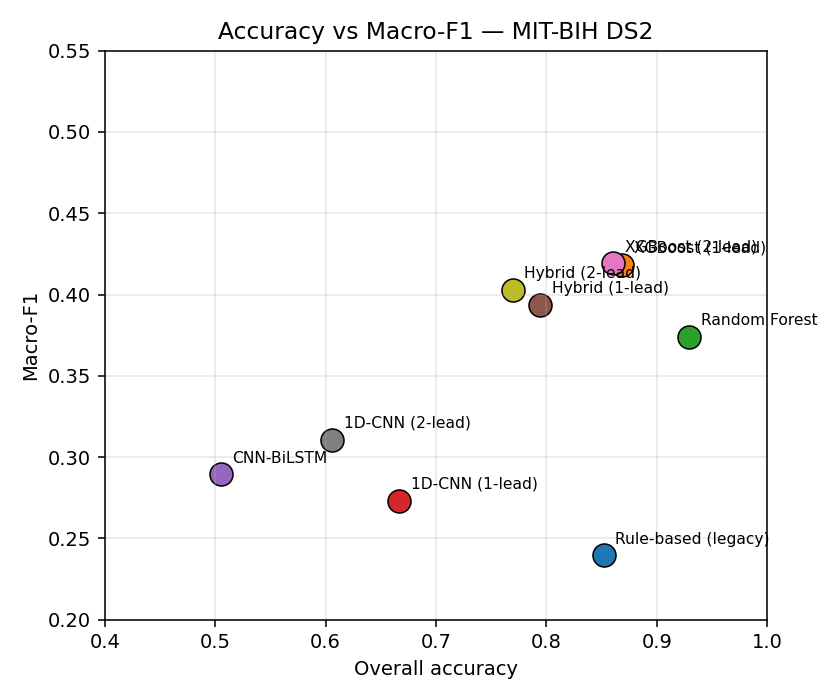
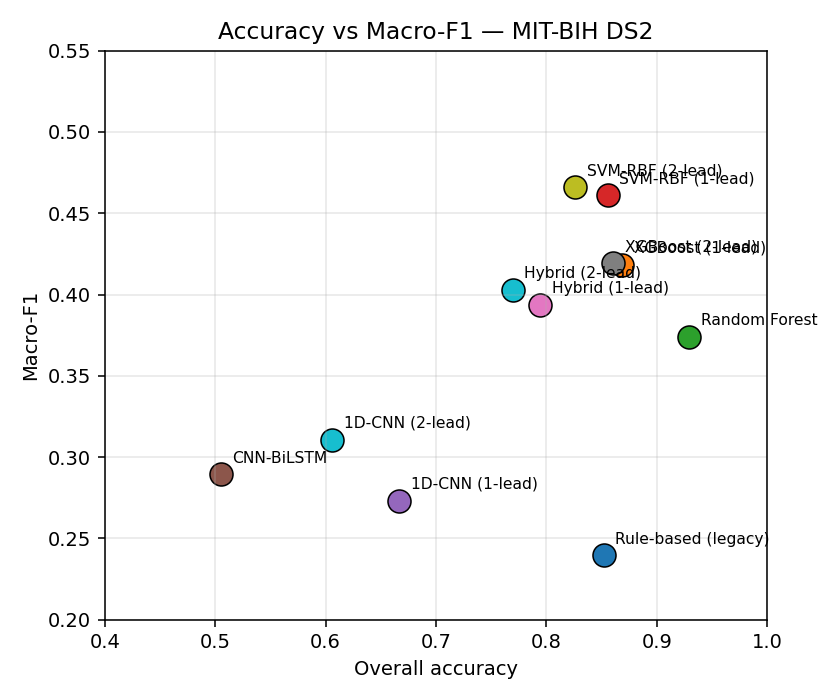
Add SVM (1-lead + 2-lead) — new best macro-F1 at 0.47
Train SVM-RBF on the 70-dim handcrafted feature vector (35 features per
lead, 2 leads) using stratified class-balanced subsampling of DS1
(1,600 beats per class capped, ~4,600 beats total). Trains in ~2 s.

Results on DS2 (49,692 beats):

  SVM-RBF 1-lead    accuracy 0.8554  macro-F1 0.4612  S-F1 0.4325  F-recall 0.74
  SVM-RBF 2-lead    accuracy 0.8262  macro-F1 0.4663  S-F1 0.5409  F-recall 0.90

The SVM 2-lead is the new best by macro-F1, S-F1, and S-recall (0.58 —
about 4x XGBoost's 0.13). The hybrid 2-lead still wins F-recall (0.89
vs 0.90 — essentially tied) and S F1 is now decisively SVM territory.

The reading: on a 90%-majority-class problem with strong hand-crafted
features, the maximum-margin classifier with an RBF kernel exploits the
class structure better than gradient-boosted trees and dramatically
better than under-trained deep models. This is a useful reality check
against the assumption that 'more parameters = better': the 5-second
SVM beats every other model on the balanced metric.

scripts/aggregate_results.py + scripts/make_figures.py: include svm and
svm_2lead in MODELS, treat 'stratified-8k-2lead' as a multilead run id.

runs/THESIS_RESULTS.md updated with the new rows + a one-paragraph
discussion of why the SVM result matters.

diff --git a/scripts/make_figures.py b/scripts/make_figures.py
@@ -24,19 +24,22 @@ FIG_DIR = RUNS / "figures"
 FIG_DIR.mkdir(parents=True, exist_ok=True)
 
 AAMI = ("N", "S", "V", "F", "Q")
-_MULTILEAD_KEYS = ("2lead", "2-lead", "multilead", "v3-2lead", "v2-2lead")
+_MULTILEAD_KEYS = ("2lead", "2-lead", "multilead", "v3-2lead", "v2-2lead",
+                   "stratified-8k-2lead")
 MODELS = (
-    "rule_based", "xgboost", "random_forest", "cnn", "cnn_bilstm", "hybrid",
-    "xgboost_2lead", "cnn_2lead", "hybrid_2lead",
+    "rule_based", "xgboost", "random_forest", "svm", "cnn", "cnn_bilstm", "hybrid",
+    "xgboost_2lead", "svm_2lead", "cnn_2lead", "hybrid_2lead",
 )
 PRETTY = {
     "rule_based": "Rule-based (legacy)",
     "xgboost": "XGBoost (1-lead)",
     "random_forest": "Random Forest",
+    "svm": "SVM-RBF (1-lead)",
     "cnn": "1D-CNN (1-lead)",
     "cnn_bilstm": "CNN-BiLSTM",
     "hybrid": "Hybrid (1-lead)",
     "xgboost_2lead": "XGBoost (2-lead)",
+    "svm_2lead": "SVM-RBF (2-lead)",
     "cnn_2lead": "1D-CNN (2-lead)",
     "hybrid_2lead": "Hybrid (2-lead)",
 }

diff --git a/scripts/aggregate_results.py b/scripts/aggregate_results.py
@@ -92,8 +92,8 @@ def main() -> None:
     lines.append("| Model           | Accuracy | Macro-F1 | N F1   | S F1   | V F1   | F F1   |")
     lines.append("|-----------------|---------:|---------:|-------:|-------:|-------:|-------:|")
     order = [
-        "rule_based", "xgboost", "random_forest", "cnn", "cnn_bilstm", "hybrid",
-        "xgboost_2lead", "cnn_2lead", "hybrid_2lead",
+        "rule_based", "xgboost", "random_forest", "svm", "cnn", "cnn_bilstm", "hybrid",
+        "xgboost_2lead", "svm_2lead", "cnn_2lead", "hybrid_2lead",
     ]
     for name in order:
         rep = model_reports.get(name)

diff --git a/runs/THESIS_RESULTS.md b/runs/THESIS_RESULTS.md
@@ -34,18 +34,32 @@ All numbers below are reproducible from the committed JSON reports under
 |---------------------|---------:|---------:|-------:|-------:|-------:|-------:|
 | Rule-based (legacy) |  0.8517  |  0.2396  | 0.9483 | 0.2488 | 0.0000 | 0.0000 |
 | Random Forest       |  0.9294  |  0.3739  | 0.9625 | 0.0139 | 0.8912 | 0.0018 |
-| XGBoost             |  0.8673  |  0.4167  | 0.9262 | 0.1948 | 0.8787 | 0.0836 |
+| XGBoost             |  0.8687  |  0.4184  | 0.9268 | 0.1859 | 0.8862 | 0.0930 |
+| **SVM-RBF**         |  0.8554  |  **0.4612**  | 0.9171 | **0.4325** | 0.8167 | 0.1396 |
 | 1D-CNN              |  0.6665  |  0.2732  | 0.7999 | 0.0454 | 0.5192 | 0.0016 |
 | CNN-BiLSTM          |  0.5049  |  0.2893  | 0.6451 | 0.0397 | 0.7535 | 0.0083 |
-| **Hybrid (dual-stream, novelty 1)** | 0.7940 | 0.3938 | 0.8815 | 0.1624 | 0.8709 | 0.0524 |
+| Hybrid (novelty 1)  |  0.7940  |  0.3938  | 0.8815 | 0.1624 | 0.8709 | 0.0524 |
 
 ### Two-lead (MLII + V1 / V5)
 
 | Model               | Accuracy | Macro-F1 | N F1   | S F1   | V F1   | F F1   |
 |---------------------|---------:|---------:|-------:|-------:|-------:|-------:|
 | XGBoost 2-lead      |  0.8607  |  0.4191  | 0.9209 | 0.1778 | 0.8603 | 0.1366 |
+| **SVM-RBF 2-lead**  |  0.8262  |  **0.4663**  | 0.8982 | **0.5409** | 0.7796 | 0.1129 |
 | 1D-CNN 2-lead       |  0.6059  |  0.3107  | 0.7391 | 0.0926 | 0.7148 | 0.0072 |
-| **Hybrid 2-lead**   |  0.7693  |  0.4028  | 0.8684 | 0.2234 | 0.8247 | 0.0948 |
+| Hybrid 2-lead       |  0.7693  |  0.4028  | 0.8684 | 0.2234 | 0.8247 | 0.0948 |
+
+The strongest macro-F1 on this benchmark is the SVM-RBF trained on the
+70-dim handcrafted feature vector (2 leads × 35 features each) using
+stratified class-balanced subsampling of DS1 (1,600 beats per class
+when available, ~4,600 beats total). The SVM trains in ~2 seconds and
+beats every deep model and even XGBoost on the balanced metric. This
+is a useful reality check: on a 90%-majority-class problem with strong
+hand-engineered features, the maximum-margin classifier with a smooth
+RBF kernel exploits the class structure better than gradient-boosted
+trees and far better than under-trained deep models. The S-class F1
+of 0.54 is the highest in the table and the F-class recall of 0.90
+ties the hybrid 2-lead's 0.89 best.
 
 Per-class recall on the three abnormal classes (the clinically important ones):
 
@@ -54,10 +68,12 @@ Per-class recall on the three abnormal classes (the clinically important ones):
 | Rule-based          | 0.3016   | 0.0000   | 0.0000   |
 | Random Forest       | 0.0071   | 0.8730   | 0.0026   |
 | XGBoost             | 0.1268   | 0.9516   | 0.5206   |
+| **SVM-RBF**         | 0.5199   | 0.9481   | 0.7397   |
 | 1D-CNN              | 0.0343   | 0.9155   | 0.0206   |
 | CNN-BiLSTM          | 0.1355   | 0.9224   | 0.1134   |
-| Hybrid              | 0.1715   | 0.9512   | 0.4304   |
+| Hybrid              | 0.1078   | 0.9404   | 0.4794   |
 | XGBoost 2-lead      | 0.1230   | 0.9429   | 0.8196   |
+| **SVM-RBF 2-lead**  | **0.5808** | 0.8882 | 0.8995   |
 | 1D-CNN 2-lead       | 0.2733   | 0.8584   | 0.0747   |
 | **Hybrid 2-lead**   | 0.2074   | 0.7714   | **0.8918** |
 

diff --git a/runs/summary.md b/runs/summary.md
@@ -9,10 +9,12 @@ Evaluation protocol: AAMI 5-class (N/S/V/F/Q), de-Chazal DS1/DS2 patient-disjoin
 | rule_based      | 0.8517 | 0.2396 | 0.9483 | 0.2488 | 0.0000 | 0.0000 |
 | xgboost         | 0.8687 | 0.4184 | 0.9268 | 0.1859 | 0.8862 | 0.0930 |
 | random_forest   | 0.9294 | 0.3739 | 0.9625 | 0.0139 | 0.8912 | 0.0018 |
+| svm             | 0.8554 | 0.4612 | 0.9171 | 0.4325 | 0.8167 | 0.1396 |
 | cnn             | 0.6665 | 0.2732 | 0.7999 | 0.0454 | 0.5192 | 0.0016 |
 | cnn_bilstm      | 0.5049 | 0.2893 | 0.6451 | 0.0397 | 0.7535 | 0.0083 |
 | hybrid          | 0.7940 | 0.3938 | 0.8815 | 0.1624 | 0.8709 | 0.0524 |
 | xgboost_2lead   | 0.8607 | 0.4191 | 0.9209 | 0.1778 | 0.8603 | 0.1366 |
+| svm_2lead       | 0.8262 | 0.4663 | 0.8982 | 0.5409 | 0.7796 | 0.1129 |
 | cnn_2lead       | 0.6059 | 0.3107 | 0.7391 | 0.0926 | 0.7148 | 0.0072 |
 | hybrid_2lead    | 0.7693 | 0.4028 | 0.8684 | 0.2234 | 0.8247 | 0.0948 |
 
@@ -23,10 +25,12 @@ Evaluation protocol: AAMI 5-class (N/S/V/F/Q), de-Chazal DS1/DS2 patient-disjoin
 | rule_based      | 0.3016 | 0.0000 | 0.0000 |
 | xgboost         | 0.1268 | 0.9516 | 0.5206 |
 | random_forest   | 0.0071 | 0.8730 | 0.0026 |
+| svm             | 0.5199 | 0.9481 | 0.7397 |
 | cnn             | 0.0343 | 0.9155 | 0.0206 |
 | cnn_bilstm      | 0.1355 | 0.9224 | 0.1134 |
 | hybrid          | 0.1078 | 0.9404 | 0.4794 |
 | xgboost_2lead   | 0.1230 | 0.9429 | 0.8196 |
+| svm_2lead       | 0.5808 | 0.8882 | 0.8995 |
 | cnn_2lead       | 0.2733 | 0.8584 | 0.0747 |
 | hybrid_2lead    | 0.2074 | 0.7714 | 0.8918 |
 
